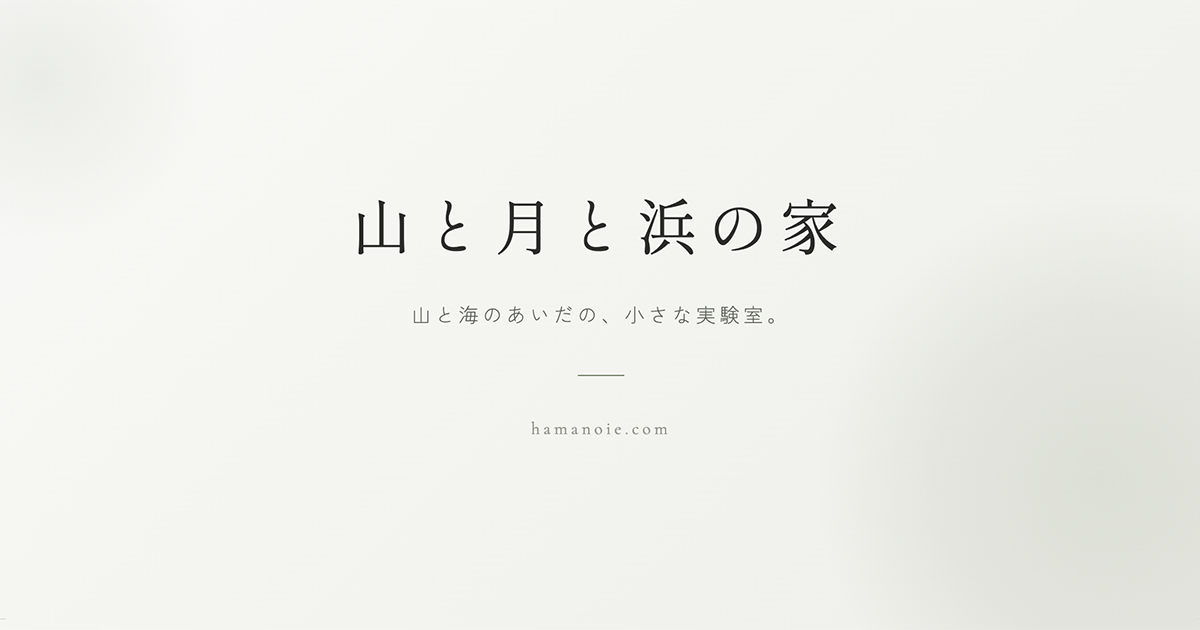
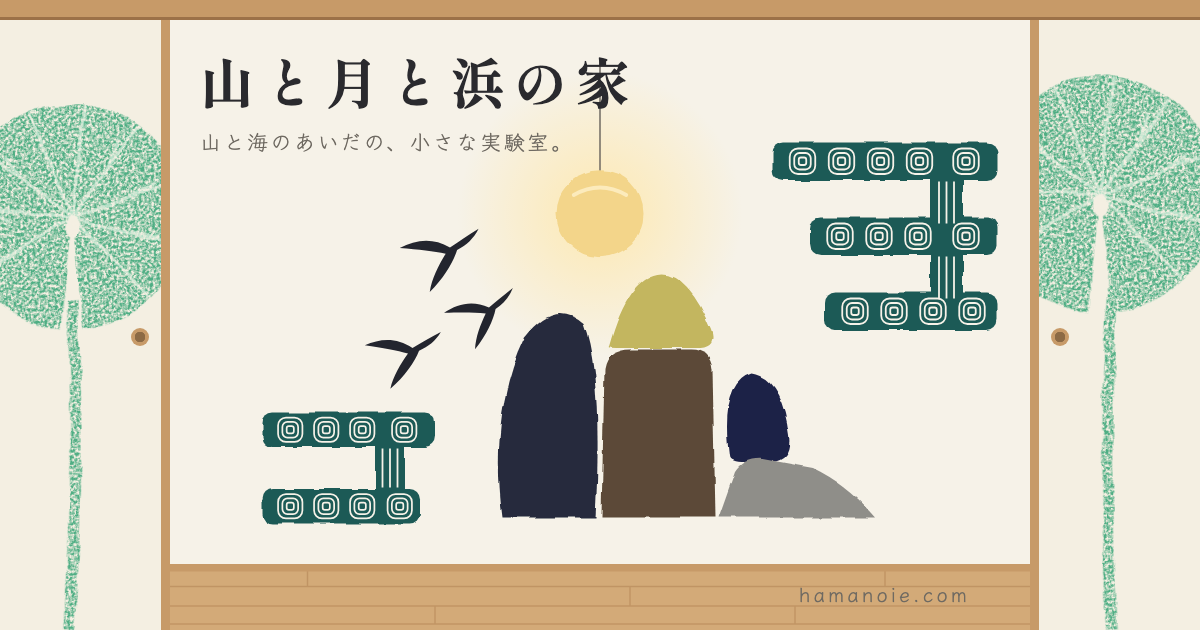
New share image (fusuma + mural), cache-bust og:image, update project spec

diff --git a/index.html b/index.html
@@ -9,7 +9,7 @@
     <!-- OGP -->
     <meta property="og:title" content="山と月と浜の家 — 山と海のあいだの、小さな実験室">
     <meta property="og:description" content="秋田県にかほ町の空き家をひらいた、手仕事、AI、対話、表現の実験室。">
-    <meta property="og:image" content="https://hamanoie.com/ogp.png">
+    <meta property="og:image" content="https://hamanoie.com/ogp.png?v=2">
     <meta property="og:url" content="https://hamanoie.com">
     <meta property="og:type" content="website">
     <meta property="og:locale" content="ja_JP">
@@ -18,7 +18,7 @@
     <meta name="twitter:card" content="summary_large_image">
     <meta name="twitter:title" content="山と月と浜の家 — 山と海のあいだの、小さな実験室">
     <meta name="twitter:description" content="秋田県にかほ町の空き家をひらいた、手仕事、AI、対話、表現の実験室。">
-    <meta name="twitter:image" content="https://hamanoie.com/ogp.png">
+    <meta name="twitter:image" content="https://hamanoie.com/ogp.png?v=2">
 
     <!-- Favicon -->
     <link rel="icon" type="image/svg+xml" href="/favicon.svg">

diff --git a/PROJECT_SPEC.md b/PROJECT_SPEC.md
@@ -1,105 +1,42 @@
 # hamanoie.com — プロジェクト仕様書
 
 ## 概要
-「山と月と浜の家」のサイト。空き家リノベのアトリエスペースの名刺サイト。
-「どんな場所か」「どこにあるか」が一目でわかることが目的。
+「山と月と浜の家」のサイト。秋田県にかほ市の空き家をひらいた、小さな実験室。
+ふすまを開けて「おじゃまします」と入る、壁画の切り絵の世界。
 
 ## コンセプト
 **「山と海のあいだの、小さな実験室。」**
+手仕事、AI、対話、表現——そのとき関心のあることを持ち寄る場所。イベントのときだけひらく。
 
-手仕事、AI、対話、表現——そのとき関心のあることを持ち寄って、
-小さく実験するための場所。何をやるかは決めすぎない。自由な器。
+## ドメイン / デプロイ
+- hamanoie.com
+- Vercel（GitHub連携。main に push すると本番に出る）
 
-## ドメイン
-- hamanoie.com（既存ドメイン）
+## 構成（1ページ）
+1. **HERO** — 葉っぱのふすま（4枚）。「おじゃまします」かスクロールで左右に開く
+   - 中は座敷の壁画を切り絵にした SVG：月のランプ（押すと消灯/点灯）、鳥（押すと飛んで戻る）、石（押すとゆれる）、うずまきの帯
+   - 玄関の札：ふだんは「おやすみちゅう」。予定が決まったら index.html の script 内 `NEXT` に `{ date, title }` を書く
+2. **この家の はなし** — 英語の先生の家 → 空き家 → 父が買う → 眠っていた → ひらいた（PCはたて書き）
+3. **この家の こよみ** — 2022〜の出来事。写真は `events/`、壁画ライブペイントの動画も
+4. **へや** — 部屋の写真（テープで貼った風）
+5. **この家の アルバム** — 説明なしの写真（`album/`）
+6. **ばしょ** — 住所は伏せる（イベント参加者にのみ個別に案内）
+7. **おたより** — Google フォーム
+8. **フッター** — 運営：すとうえみ／「三藤エネルギー株式会社・飛風力発電株式会社の協賛により運営」
 
-## デプロイ
-- Vercel（GitHub連携）
+## 写真のルール
+- 元データは `_photos/`（git管理外・ネットに出さない）。サイトには縮小コピーだけを置く
+- 外観の写真は使わない（場所が特定されるため）
+- 参加者の写っている写真は掲載許可あり（2026-10 確認）
 
-## 技術スタック
-- 静的サイト（HTML / CSS / JS）
-- 個人サイト（emisuto.com）と同じ構成
+## デザイン
+- 壁画から取った色：しっくい #F6F2E8、すみ #23252E、紺 #252A3D、茶 #5B4A37、オリーブ #C3B65F、石 #8F8E89、緑青 #1E5A56、葉 #4FAE84、木 #C79A68、月 #F3D58A
+- フォント：Shippori Mincho（見出し）、Klee One（本文）
+- 形は SVG フィルタで「手でちぎった紙」のふちに。葉っぱは拓本風のかすれ
+- 勝手に動き続ける演出は置かない（えみは動きが多いと目が回る）
 
-## サイト構成（1ページ完結）
+## シェア画像
+- `ogp.png`（1200×630）。作り直すときは `_ogp.html`（git管理外）をローカルで開き、Chrome のヘッドレスで撮影
 
-### 1. Hero（トップ）
-- 名前：山と月と浜の家
-- タグライン：山と海のあいだの、小さな実験室。
-- ビジュアル：座敷の写真（hamanoie-hero.jpeg）を全面表示
-- 写真の上にオーバーレイをかけて、下部にテキスト配置
-
-### 2. About
-```
-秋田県にかほ町の空き家をリノベーションした
-アトリエスペースです。
-
-手仕事、AI、対話、表現——
-そのとき関心のあることを持ち寄って、
-小さく実験するための場所。
-
-イベント時のみオープンしています。
-```
-
-### 3. Space（写真ギャラリー）
-- hamanoie-fusuma.jpeg（蓮の葉のふすま）
-- hamanoie-chair.jpeg（ロッキングチェアと窓辺）
-- hamanoie-plants.jpeg（植物と本棚）
-- hamanoie-kitchen.jpeg（キッチンとテーブル）
-- グリッドレイアウト、ホバーで微ズーム
-- 注意：外観の写真は使用しない（プライバシー保護）
-
-### 4. Access
-- 所在地：〒018-0109 秋田県にかほ市象潟町冠石下48
-- 最寄駅：JR 象潟（きさかた）駅より徒歩10分（700m）
-- Google Maps 埋め込み
-- 注意事項：
-  - イベント時のみオープン
-  - 突然の訪問等はご遠慮ください
-  - スペースのレンタルはしておりません
-
-### 5. Contact
-- NOTEメッセージへのリンク：https://note.com/eminooto/message
-
-### 6. Footer
-- © 2026 山と月と浜の家
-- 運営者リンク：Emi Suto → https://www.emisuto.com
-
-## デザイン仕様
-
-### トーン
-- 個人サイト（emisuto.com）と同じ空気感
-- 白ベース、暖色がほんのり、余白多め
-- 写真が主役。言葉は最小限。
-- 場所のサイトなので「見ればわかる」潔さ
-
-### カラーパレット
-- emisuto.com と同一
-- ベース：#FAFAF8 / #F5F3EF
-- テキスト：#2C2825 / #6B6560 / #9B9590
-- ボーダー：#E5E0D8
-
-### フォント
-- emisuto.com と同一
-- 見出し日本語：Shippori Mincho
-- 本文：Zen Kaku Gothic New（weight: 300）
-- 英字：Cormorant Garamond
-
-### 個人サイトとの違い
-- Heroが写真全面表示（個人サイトはアート＋テキスト中心）
-- ナビロゴが日本語（「山と月と浜の家」）
-- 写真ギャラリーがある
-- Aboutの文章が短い（写真で語る）
-- フッターに個人サイトへのリンクあり
-
-## 参照ファイル
-- `index.html` — プロトタイプ
-- `hamanoie-hero.jpeg` — Hero画像（座敷＋壁画）
-- `hamanoie-fusuma.jpeg` — 蓮のふすま
-- `hamanoie-chair.jpeg` — ロッキングチェアと窓辺
-- `hamanoie-plants.jpeg` — 植物と本棚
-- `hamanoie-kitchen.jpeg` — キッチンとテーブル
-
-## 備考
-- Google Mapsの埋め込みURLは正しいものに差し替えが必要
-- OGP画像、faviconも設定すること
-- 関連サイト：emisuto.com（個人サイト、運営者）
+## 旧デザイン
+- git タグ `before-renewal-2026-10`
